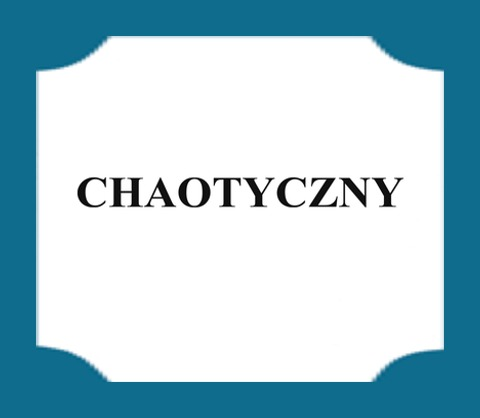
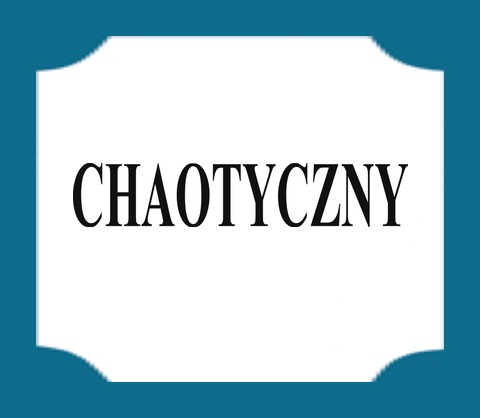
Squash the frame, not the lettering, and put the card down smaller
A frame can be any shape and still read as a frame. A word cannot: squashed
with the card, `Zły` came out flattened into something the box never printed,
which is the one thing here that reads as a mistake rather than as a choice.

So the two happen at different moments now. The erasure is fractions of the
card as printed and goes on before the squash, because what it has to cover is
printed at those proportions. The words are fractions of the squashed card and
go on after, at their own shape, off the sheets at full resolution.

And the card is drawn at 59 rather than 88 — under a third of the Karta
Postaci it lies below, which is a marker put down beside a card and still a
marker when four seats are on screen at once.

Changed region(s): [[0.125, 0.3732, 0.8438, 0.5598]]

diff --git a/src/app/g/[code]/seat-card.tsx b/src/app/g/[code]/seat-card.tsx
@@ -848,14 +848,15 @@ function NatureLine({
 }
 
 /**
- * Well under half the Karta Postaci it lies below.
+ * Under a third of the Karta Postaci it lies below.
  *
- * The card is 192 across and this is the smaller object of the two — a marker
- * put down next to a card, not a second card. Still wide enough for
- * CHAOTYCZNY, which is the longest of the three words and the one fitted by
- * its width rather than its height.
+ * The card is 192 across and this is much the smaller object of the two — a
+ * marker put down beside a card, not a second card, and a marker that has to
+ * stay a marker when four seats are on screen at once. Small enough that
+ * CHAOTYCZNY, the longest of the three words and the one fitted by its width,
+ * is at the edge of what a glance will take; the hover names it either way.
  */
-const NATURE_CARD_WIDTH = 88;
+const NATURE_CARD_WIDTH = 59;
 
 function EffectMark({
   mark,
